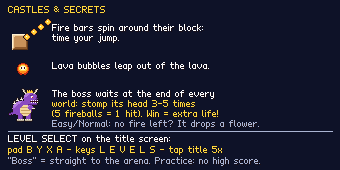
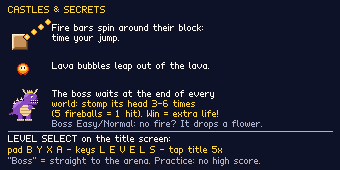
v1.5.1: kein Start-Hüpfer, eigene Boss-Schwierigkeit
- Held hüpfte am Anfang jedes Kurses, wenn man ihn per A betrat
  (A = Betreten + Springen; die Welt hält erst am Frame-Ende an):
  bis die Titelkarte weg ist, nimmt der Held keine Eingaben an
- Settings „Boss fight“: As game / Easy / Normal / Hard — Betäubungszeit
  und Feuerblumen des Bosses unabhängig von der Level-Schwierigkeit
- Hilfe: Boss braucht 3-6 Treffer; Wertspalte der Settings breiter
- Playtests starthop + bossdiff, Selbsttest für boss_difficulty

Changed region(s): [[0.2059, 0.7059, 0.7647, 0.7647], [0.4706, 0.5882, 0.5, 0.6176]]

diff --git a/tools/gen_help.py b/tools/gen_help.py
@@ -635,9 +635,9 @@ def page_castles():
     boss = trim(sheet_frame("boss_2", 32, 34, 0))
     img.alpha_composite(boss, (8, 88))
     text(d, (52, 90), "The boss waits at the end of every")
-    text(d, (52, 100), "world: stomp its head 3-5 times", fill=GOLD)
+    text(d, (52, 100), "world: stomp its head 3-6 times", fill=GOLD)
     text(d, (52, 110), "(5 fireballs = 1 hit). Win = extra life!", fill=GOLD)
-    text(d, (52, 120), "Easy/Normal: no fire left? It drops a flower.", fill=DIM)
+    text(d, (52, 120), "Boss Easy/Normal: no fire? It drops a flower.", fill=DIM)
     d.line((8, 131, 332, 131), fill=DIM)
     text(d, (8, 135), "LEVEL SELECT on the title screen:", fill=WHITE)
     text(d, (8, 146), "pad B Y X A - keys L E V E L S - tap title 5x", fill=GOLD)

diff --git a/CLAUDE.md b/CLAUDE.md
@@ -252,7 +252,10 @@ Musik +20 % Tempo).
 
 ## Einstellungen (Start-Screen + Pause)
 
-Leben (1–9), Schwierigkeit (Gegnertempo ×0,8/1,0/1,25; Easy +100 Zeit),
+Leben (1–9), Schwierigkeit (Gegnertempo ×0,8/1,0/1,25 — alle Gegner,
+auch Meteorfelder; Easy +100 Zeit), „Boss fight“ (v1.5.1: As game / Easy /
+Normal / Hard — Boss-Schwierigkeit unabhängig vom Rest,
+`GameSettings.boss_difficulty(cfg)`; „As game“ folgt Difficulty),
 Timer (Off/Level/Short = 75 %), Münzpunkte (0/100/200/500), 1-UP-Münzen
 (Off/50/100/200), 1-UP-Punkte (v0.15: Off/2500/5000/10000/20000 —
 `game.gd::add_score` zählt überschrittene Schwellen, zustandslos), „Start
@@ -634,7 +637,8 @@ Partikel, Musik `music_castle`). Deko: `*` Banner, `+`/`t` Fackel
   waagrecht oder nach unten (max. 37°, `MAX_DOWN`), auch jede Fächer-
   Flamme (`_fan`); Eisbälle werden waagrecht ausgespuckt und springen erst
   am Boden hoch (Mindest-Rückprall in `boss_flame.gd`). Settings >
-  Difficulty: `STUN` 1,0 / 0,8 / 0,5 s, Feuerblumen (`FLOWERS`) bei Leicht
+  Boss fight (seit v1.5.1 eigene Einstellung, „As game“ = wie
+  Difficulty): `STUN` 1,0 / 0,8 / 0,5 s, Feuerblumen (`FLOWERS`) bei Leicht
   und Mittel, bei Schwer keine — Blumen kommen bei einem Treffer UND
   1,2 s nachdem der Held seine Feuerkraft verloren hat (`_no_fire_t`; der
   Nutzer hatte den Abwurf nie gesehen). Die Feuerblume vor der Arena und
@@ -696,6 +700,12 @@ skaliert (NEAREST). Adaptive-Vordergrund bleibt im sichtbaren Kreis (~61 %).
 
 ## Weltkarte (v1.1, ersetzt „Select World“)
 
+- **Kein Start-Hüpfer (v1.5.1)**: A betritt den Kurs UND ist Springen;
+  die Welt hält erst am Frame-Ende an (`set_deferred`), der neue Held sah
+  also noch „Sprung gedrückt“ und flog nach der Titelkarte weiter (47 px,
+  Nutzer: „hüpft am Anfang jedes Levels“). `_begin_level()` setzt
+  `player.input_enabled = false` bis die Karte weg ist und leert dann den
+  Sprungpuffer. Playtest `starthop`.
 - **Ablauf**: Titel „Play“ (`play_pressed(-1)`) → `game.gd::start_map_run()`
   = neuer Lauf (`_new_run()`: Punkte, Münzen, Leben, Kraft, Drache) → Karte
   (`State.MAP`, `_show_map()`), Held auf dem weitesten erreichten Kurs →

diff --git a/TODO.md b/TODO.md
@@ -30,6 +30,11 @@ Version inkl. itch.io-Upload:
 
 ## Erledigt
 
+- [x] v1.5.1 (Nutzer 2026-09-29): Held hüpfte am Anfang jedes Kurses, wenn
+      man ihn per A betrat (A = Betreten + Springen) — behoben; eigene
+      Einstellung „Boss fight“ (As game / Easy / Normal / Hard) unabhängig
+      von der Schwierigkeit der Level; Hilfe „3-6 Treffer“.
+
 - [x] v1.2.1 Feinschliff (Nutzer 2026-09-28, nach RG552-Test):
       1. Highscore-Liste müllt nicht mehr zu: Levelauswahl-Läufe ohne
          Eintrag, Name wird pro Lauf nur einmal gefragt, „Clear list“.
